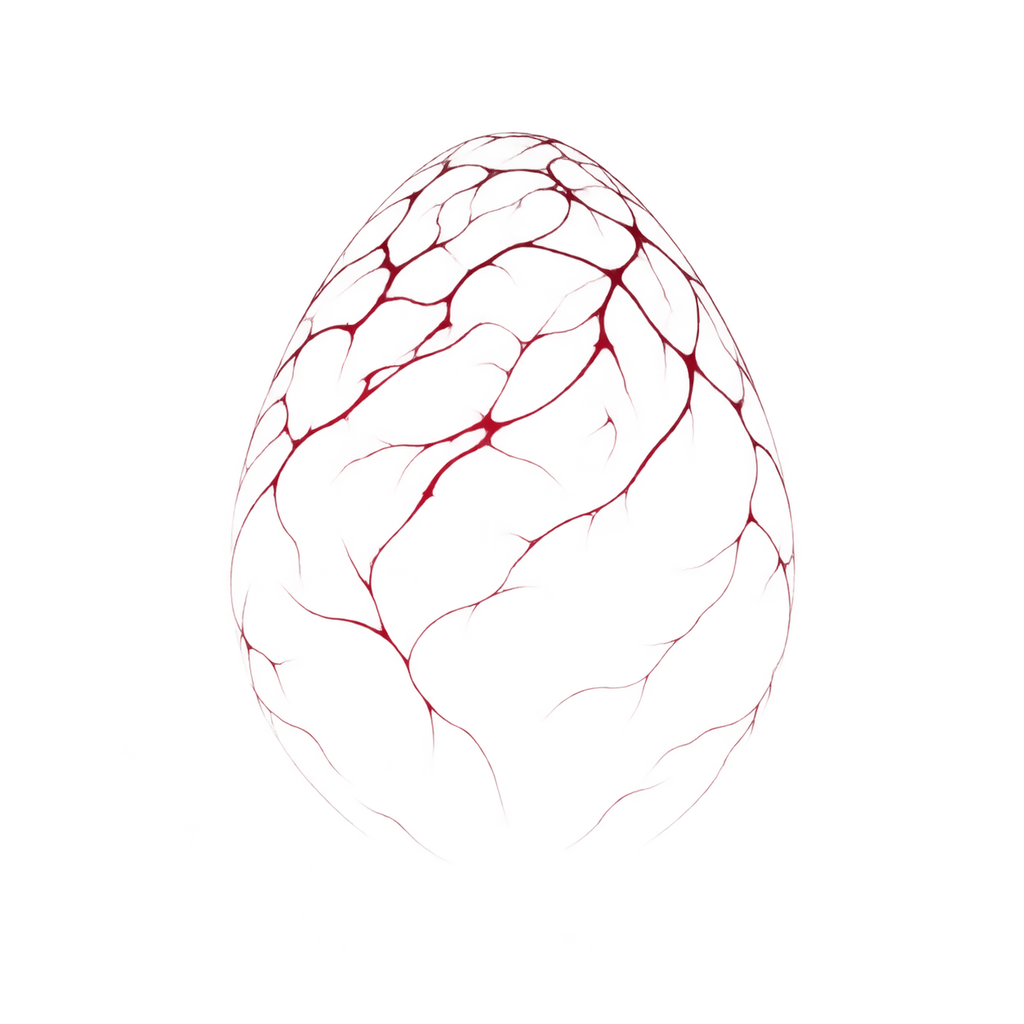
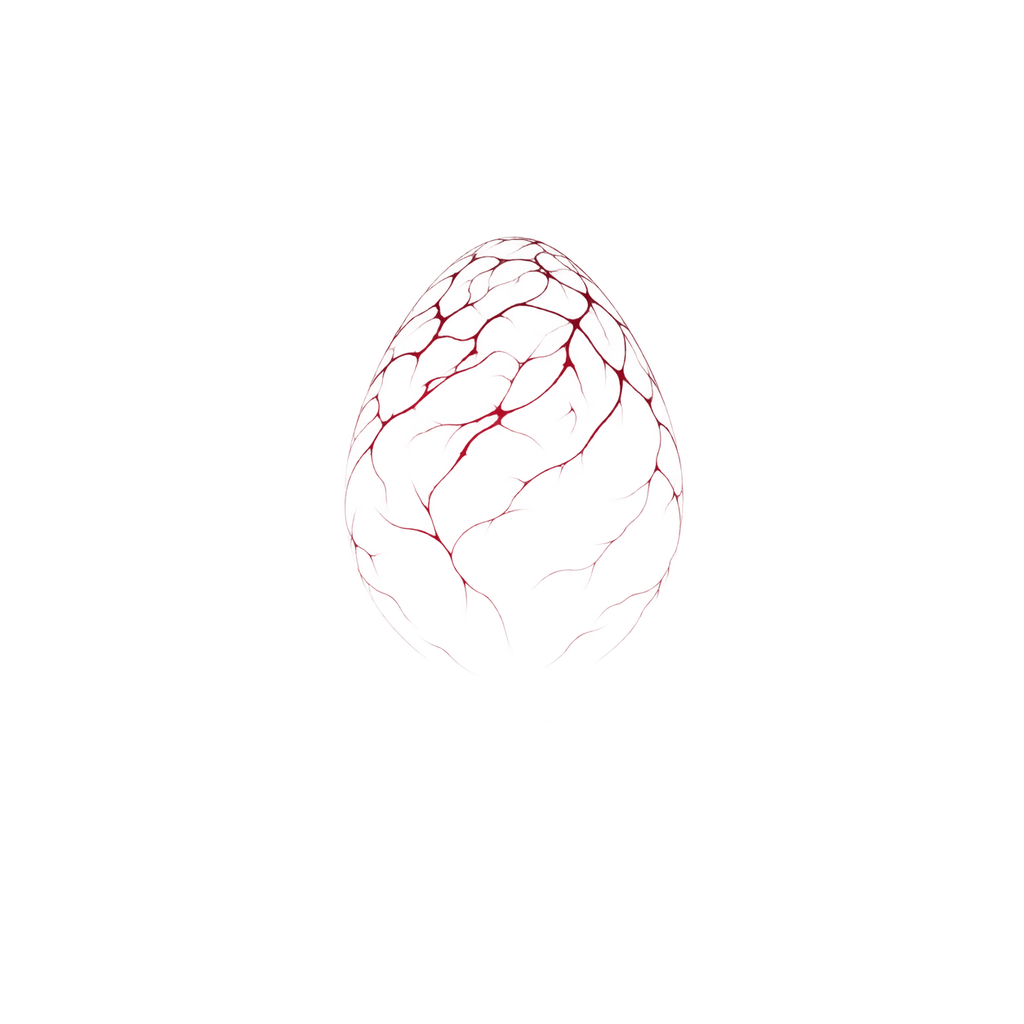
Add shared incubator art v0.1 and refit the origin egg to it
- cradle-back / cradle-front from art handoff v0.1, re-encoded at 1024
- origin egg layers re-exported at 60% with the egg bottom centered on
  the cradle dish; sway and hatch pivot moved to match
- incubator enlarged on screen and its empty top cropped; no horizontal
  overflow on 360-412px phones
- docs: shared coordinates now defined by the incubator

Claude-Session: https://claude.ai/code/session_01NLB8SsMm2s9edHByXCUDsp

diff --git a/css/app.css b/css/app.css
@@ -55,7 +55,7 @@ body::before {
 .view { flex: 1; display: flex; flex-direction: column; gap: var(--gap); padding: 10px 0 20px; }
 
 /* ---------- 培育槽 ---------- */
-.stage { position: relative; flex: 1; min-height: 340px; display: flex; flex-direction: column; align-items: center; justify-content: center; }
+.stage { position: relative; flex: 1; min-height: 340px; overflow-x: clip; overflow-y: visible; display: flex; flex-direction: column; align-items: center; justify-content: center; }
 .stage__tag {
   position: relative; z-index: 1; margin-bottom: -6px;
   padding: 4px 16px; border-radius: 99px; border: 1px solid transparent;
@@ -85,15 +85,16 @@ body::before {
 @keyframes mote { 0%, 100% { opacity: 0; transform: translateY(8px); } 50% { opacity: 0.9; transform: translateY(-10px); } }
 
 /* ---------- 培養架（固定）＋恐龍蛋（可替換） ---------- */
-.incubator { position: relative; width: min(100%, 52dvh); aspect-ratio: 1; }
+/* 培養架素材上方約 17% 是空的，所以放大並往上收，讓架子本體填滿培育區 */
+.incubator { position: relative; width: min(128%, 64dvh); aspect-ratio: 1; margin: -12% 0 -10%; }
 .incubator::after { /* 底座下方的落地光 */
-  content: ""; position: absolute; left: 14%; right: 14%; bottom: -3%; height: 12%; z-index: -1;
+  content: ""; position: absolute; left: 22%; right: 22%; bottom: 7%; height: 10%; z-index: -1;
   background: radial-gradient(closest-side, rgba(248, 200, 190, 0.45), transparent);
 }
 .incubator__layer { position: absolute; inset: 0; width: 100%; height: 100%; object-fit: contain; pointer-events: none; user-select: none; }
 .incubator__slot { position: absolute; inset: 0; }
 .incubator__flare {
-  position: absolute; inset: 8%; border-radius: 50%; opacity: 0; pointer-events: none;
+  position: absolute; inset: 14% 22% 22%; border-radius: 50%; opacity: 0; pointer-events: none;
   background: radial-gradient(closest-side, #fff 0%, var(--egg-glow) 35%, transparent 100%);
 }
 .incubator__flare.is-on { animation: egg-flare 1.1s ease-out forwards; }
@@ -102,8 +103,8 @@ body::before {
 
 .egg { position: absolute; inset: 0; }
 .egg__layer { position: absolute; inset: 0; width: 100%; height: 100%; object-fit: contain; pointer-events: none; user-select: none; }
-.egg__body { position: absolute; inset: 0; transform-origin: 50% 86%; animation: egg-breathe 3.6s ease-in-out infinite; }
-.egg__wobble { position: absolute; inset: 0; transform-origin: 50% 86%; }
+.egg__body { position: absolute; inset: 0; transform-origin: 50% 68.5%; animation: egg-breathe 3.6s ease-in-out infinite; }
+.egg__wobble { position: absolute; inset: 0; transform-origin: 50% 68.5%; }
 .egg__layer--glow { mix-blend-mode: screen; opacity: var(--glow, 0.12); animation: egg-pulse var(--pulse, 3s) ease-in-out infinite; }
 .egg__layer--cracks { opacity: 0; transition: opacity 0.6s ease, clip-path 0.8s ease; clip-path: inset(0 0 100% 0); }
 

diff --git a/docs/ASSET_SPEC.md b/docs/ASSET_SPEC.md
@@ -25,11 +25,16 @@
 
 ### 共同座標系統（最重要）
 
-- **所有圖層使用同一張正方形畫布**，交付 1254×1254 即可，工程會縮成 1024 並轉 WebP
-- 程式直接把圖層疊在一起，不做個別對位，所以**每張圖都要在同一個位置輸出**
-- **以本源蛋為標準**：所有蛋都畫在本源蛋 `shell` 的位置與大小，蛋本體約佔畫布 x 20%–80%、y 13%–89%
-- 前後景培養架繞著這個蛋的位置畫，**中央透明**
-- 參考檔：`assets/eggs/origin/shell.webp`（蛋的位置）、`assets/incubator/cradle-back.webp`（目前暫用的舊底座）
+> **2026-11-15 更新：共用培養架 v0.1 已上線，座標以它為準。**
+
+- **所有圖層使用同一張正方形畫布**，程式直接疊在一起，不做個別對位
+- **培養架就是座標基準**：`assets/incubator/cradle-back.webp`、`cradle-front.webp`
+- **蛋的標準位置**（以 1254×1254 畫布計）：
+  - 蛋（含本源蛋的花朵）範圍約 x 402–852、y 288–860
+  - **蛋底中心落在 (627, 860)**，坐在底座的盤面上；程式的晃動與破殼放大都以這個點為中心
+  - 蛋本體寬約 360、高約 570
+- 參考檔：`assets/eggs/origin/shell.webp` 就是照這個位置重新輸出的，新蛋可以直接疊在它上面對位
+- **建議改用 2048×2048 畫布交付**（位置等比例放大：蛋底中心 (1045, 1403)）。蛋在新架構裡只佔畫布約 36% 寬，1254 的畫布在高解析度手機上會有點糊
 
 ### 培養架（`cradle-back`、`cradle-front`）
 
@@ -57,7 +62,7 @@
 
 ### No.001 小湘本源蛋
 
-保留專屬花朵、粉紫蛋殼與星光效果，畫在 `shell` 與 `glow` 裡。現有的 `origin` 三層蛋圖可以繼續使用，只需要新做共用的前後景培養架。
+保留專屬花朵、粉紫蛋殼與星光效果，畫在 `shell` 與 `glow` 裡。現有的 `origin` 三層蛋圖已由工程縮小到 60% 並移到標準位置重新輸出，可以先用；之後若要更清晰，請照標準位置用 2048 畫布重新輸出這三層。
 
 ### 加分項目（有的話動畫會更好）
 
@@ -134,8 +139,8 @@
 ## 7. 建議製作順序
 
 1. ~~`origin` 蛋的三層蛋圖~~（已完成並上線）
-2. **`cradle-back`、`cradle-front` 共用培養架**
-3. **`home-bg` 首頁背景**（有空的話連同 `home-fg` 前景）
+2. ~~`cradle-back`、`cradle-front` 共用培養架~~（v0.1 已上線）
+3. **`home-bg` 首頁背景**（目前最優先）（有空的話連同 `home-fg` 前景）
 4. `dinosaur-idle.png`
 5. `siang-001-original.png` → 確認黑影圖鑑與揭曉畫面
 6. App 圖示
